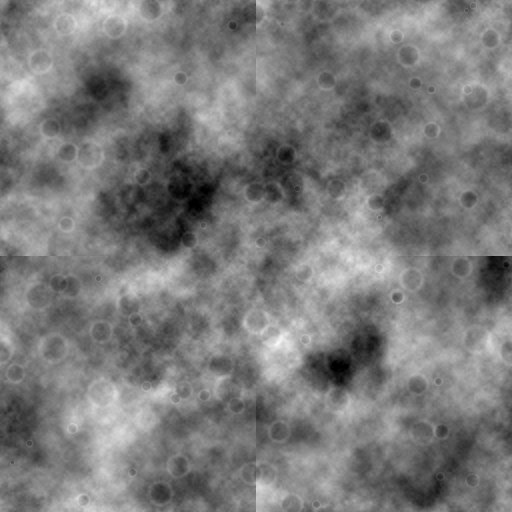
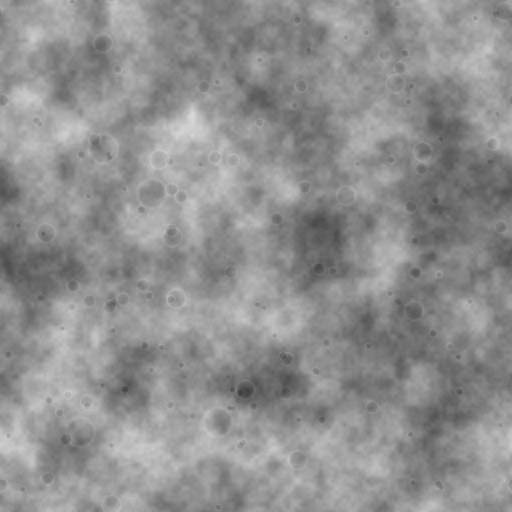
Credits, sources and licences for the challenge rules; own regolith texture
Claude-Session: https://claude.ai/code/session_01HsaBxKe74CBP2cpcHr97ht

diff --git a/index.html b/index.html
@@ -39,7 +39,7 @@
   </div>
   <div class="story-dots" aria-hidden="true"><i></i><i></i><i></i><i></i><i></i></div>
   <div class="scrollcue" id="scrollCue"><span>Scroll</span><i></i></div>
-  <div class="hero-foot">Photo: NASA LRO camera. Heights: NASA LOLA. Sun and Earth: JPL ephemeris<span class="stats-note" id="statsNote" hidden> · Anonymous usage statistics, no cookies, no names: <button id="statsOff">turn off</button></span><div class="loadbar" id="loadBar"><i></i></div></div>
+  <div class="hero-foot">Photo: NASA LRO camera. Heights: NASA LOLA. Sun and Earth: JPL ephemeris<span> · <a class="credits-link" href="https://github.com/francescobeligi-oss/GGGG-project-NASA-space-APP/blob/main/CREDITS.md" target="_blank" rel="noopener">Sources and licences</a></span><span class="stats-note" id="statsNote" hidden> · Anonymous usage statistics, no cookies, no names: <button id="statsOff">turn off</button></span><div class="loadbar" id="loadBar"><i></i></div></div>
 </section>
 
 <section class="screen" id="who">

diff --git a/web/style.css b/web/style.css
@@ -937,3 +937,4 @@ body.panel-off #explore .time { right: 0 !important; }
 .skymark.earth i { width: 28px; height: 28px; margin: 3px; }
 .skymark span { font-size: 12px; padding: 5px 8px; }
 @media (max-width: 700px) { .skymark i { width: 26px; height: 26px; } .skymark.earth i { width: 22px; height: 22px; } }
+.credits-link { color: inherit; text-decoration: underline; pointer-events: auto; }

diff --git a/CREDITS.md b/CREDITS.md
@@ -1,0 +1,69 @@
+# Credits, sources and licences
+
+Lunar Site Scout, NASA Space Apps Challenge 2026, challenge "Lunar Landing Site Navigator".
+
+## Our work
+All code, text, 3D lander models (drawn in code), the regolith grain texture (generated in code), the report and workbook formats, and the demo video were made by the team for this challenge. Licence: MIT (see `LICENSE`), an Open Source Initiative approved licence.
+
+The app shows public facts about real missions and companies, with sources. It does not promote or sell any commercial product or service.
+
+## Space agency data
+- NASA GSFC LOLA 5 m site terrain models, LOLA terrain clones (measurement error), and 10 m, 80 m and 600 m south polar terrain models: NASA Goddard Planetary Geodesy Data Archive, https://pgda.gsfc.nasa.gov/
+- NASA LOLA permanently shadowed regions catalogue: https://pgda.gsfc.nasa.gov/
+- NASA LRO LROC Wide Angle Camera south pole mosaic (NASA/GSFC/Arizona State University): https://www.lroc.asu.edu/images/1401
+- JPL DE421 planetary ephemeris, Moon orientation and frame kernels (NASA NAIF): https://naif.jpl.nasa.gov/pub/naif/generic_kernels/
+- JPL Horizons, used to validate Sun and Earth positions: https://ssd.jpl.nasa.gov/horizons/
+- NASA Deep Space Network station locations: https://deepspace.jpl.nasa.gov/
+- NASA Blue Marble Earth image (NASA Visible Earth): https://visibleearth.nasa.gov/
+- Global Moon colour image (`assets/moon_2k.jpg`): NASA Scientific Visualization Studio, CGI Moon Kit (LRO LROC colour mosaic), https://svs.gsfc.nasa.gov/4720 [TO VERIFY: confirm this is the file used, or replace it with the CGI Moon Kit image]
+- NASA Small Spacecraft Technology State of the Art (power chapter, battery energy density): https://www.nasa.gov/smallsat-institute/sst-soa/
+- Lunar feature names: IAU Gazetteer of Planetary Nomenclature (USGS), https://planetarynames.wr.usgs.gov/
+
+## Mission facts and public prices (cited in the app)
+- NASA Artemis IV: https://www.nasa.gov/mission/artemis-iv/
+- NASA CLPS, Astrobotic Griffin Mission One: https://www.nasa.gov/event/clps-flight-astrobotics-griffin-mission-one/
+- NASA: https://www.nasa.gov/?p=888289
+- Astrobotic Lunar Landers Payload User's Guide (public): https://science.nasa.gov/wp-content/uploads/2023/11/astrobotic-lunar-landers-pug.pdf
+- ESA Argonaut: https://www.esa.int/Science_Exploration/Human_and_Robotic_Exploration/Exploration/Argonaut
+- ISRO: https://www.isro.gov.in/NSPD2025/
+- NASA LRO images of Odysseus: https://www.nasa.gov/missions/lro/nasas-lro-images-intuitive-machines-odysseus-lander/
+- Intuitive Machines Nova-C: https://intuitivemachines.com/nova-c
+- SpaceNews (CLPS task order CP-22): https://spacenews.com/?p=505012 ; https://spacenews.com/?p=507567
+- Universe Magazine (ispace on Starship, reported price): https://universemagazine.com/en/lunar-logistics-moves-to-a-shared-flight-model/
+- Astronomy.com (IM-2): https://www.astronomy.com/space-exploration/intuitive-machines-im-2-moon-lander-is-lying-dead-in-a-crater/
+- Scientific American (Chang'e-7): https://www.scientificamerican.com/article/chinas-change-7-moonshot-will-seek-water-ice-at-the-lunar-south-pole/
+- Wikipedia (Chang'e-8): https://en.wikipedia.org/wiki/Chang%27e_8
+- Interfax (Luna-27): https://interfax.com/newsroom/top-stories/113182/
+- Civilsdaily (Chandrayaan-4): https://www.civilsdaily.com/?p=796318
+
+Chinese missions appear only as public information about planned landings. No data, code or help from any Chinese or Chinese-owned entity was used.
+
+## Science references (Discover nearby)
+- Lunar Prospector: https://science.nasa.gov/mission/lunar-prospector
+- https://arxiv.org/abs/1103.1687
+- https://doi.org/10.1038/nature11216
+- https://ui.adsabs.harvard.edu/abs/2021LPI....52.1013S/abstract
+- NASA: https://science.nasa.gov/solar-system/moon/phenomena-nasa-astronauts-will-encounter-at-moons-south-pole/
+- NASA SVS: https://svs.gsfc.nasa.gov/4944
+
+## Third-party software (all open source, OSI-approved licences)
+| Software | Use | Licence |
+|---|---|---|
+| three.js 0.160 | 3D rendering | MIT |
+| jsPDF 2.5.1 | PDF report | MIT (`web/vendor/JSPDF_LICENSE`) |
+| jsPDF-AutoTable 3.8.2 | PDF tables | MIT (`web/vendor/AUTOTABLE_LICENSE`) |
+| SheetJS Community Edition | Excel | Apache-2.0 (`web/vendor/SHEETJS_LICENSE`) |
+| xlsx-js-style 1.2.0 | Excel with styles | Apache-2.0 (`web/vendor/XLSX_JS_STYLE_LICENSE`) |
+| PDF.js 4.0.379 | reading mission PDFs in the browser | Apache-2.0 (`web/vendor/PDFJS_LICENSE`) |
+| Barlow and Barlow Condensed fonts (Google Fonts) | type | SIL Open Font License 1.1 |
+| Skyfield | Sun and Earth positions (data pipeline) | MIT |
+| NumPy, SciPy | data pipeline | BSD-3-Clause |
+| rasterio | reading terrain models | BSD-3-Clause |
+| pyproj | map projections | MIT |
+| pyshp | shadowed-region shapes | MIT |
+| Streamlit, Plotly | early prototype (`app.py`) | Apache-2.0, MIT |
+
+## Privacy
+The analysis runs in the visitor's browser; documents are read locally and never uploaded. Optional anonymous usage statistics and an optional feedback form (email only with explicit consent) go to a private sheet of the team, never to this repository. No personal data is part of the submission.
+
+No export-controlled information is used: all inputs are public.

diff --git a/README.md b/README.md
@@ -25,3 +25,6 @@ pip install -r requirements.txt
 python src/ephem.py && python src/horizon.py && python src/precompute.py
 streamlit run app.py
 ```
+
+## Credits and licences
+Code: MIT licence (`LICENSE`). Every data source, reference and third-party licence is listed in [`CREDITS.md`](CREDITS.md).
